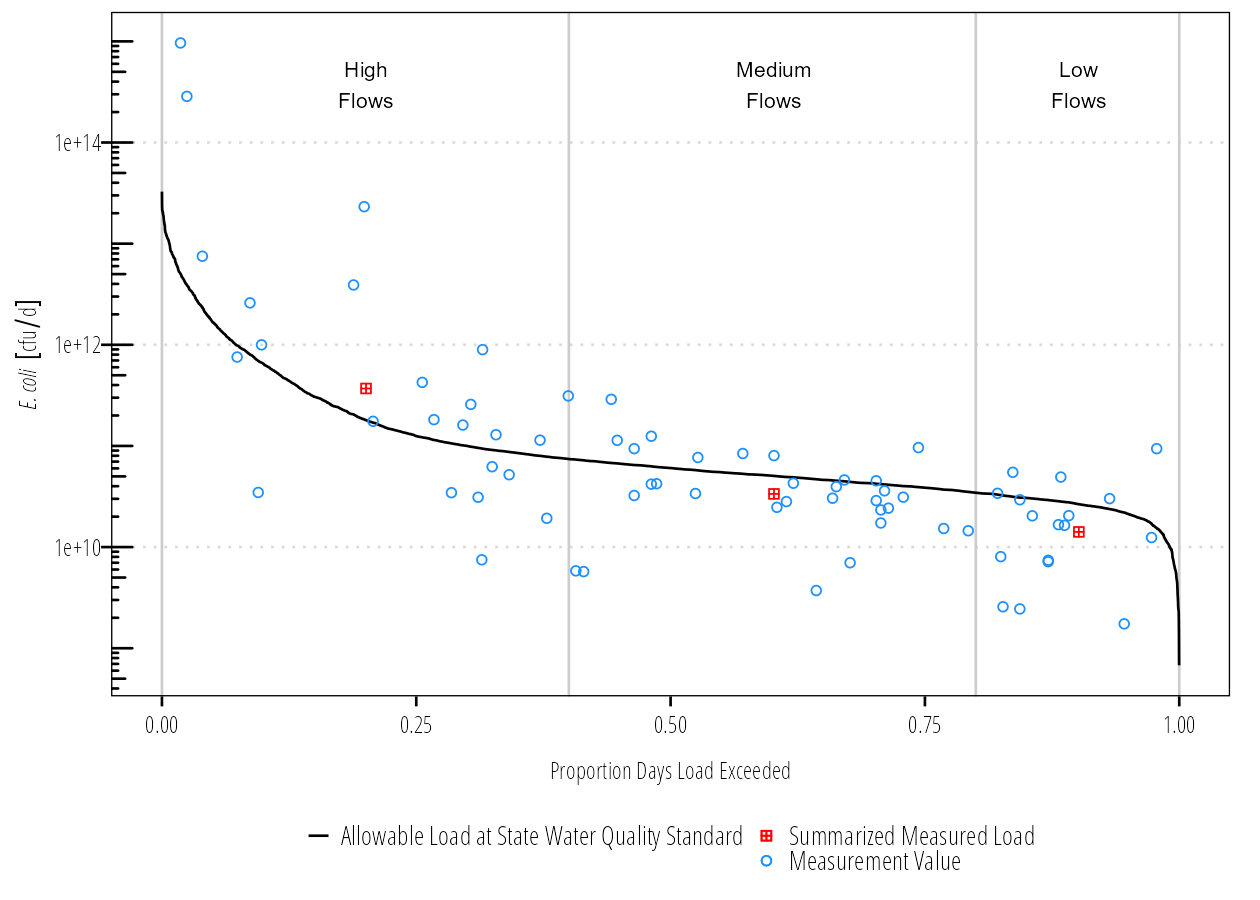
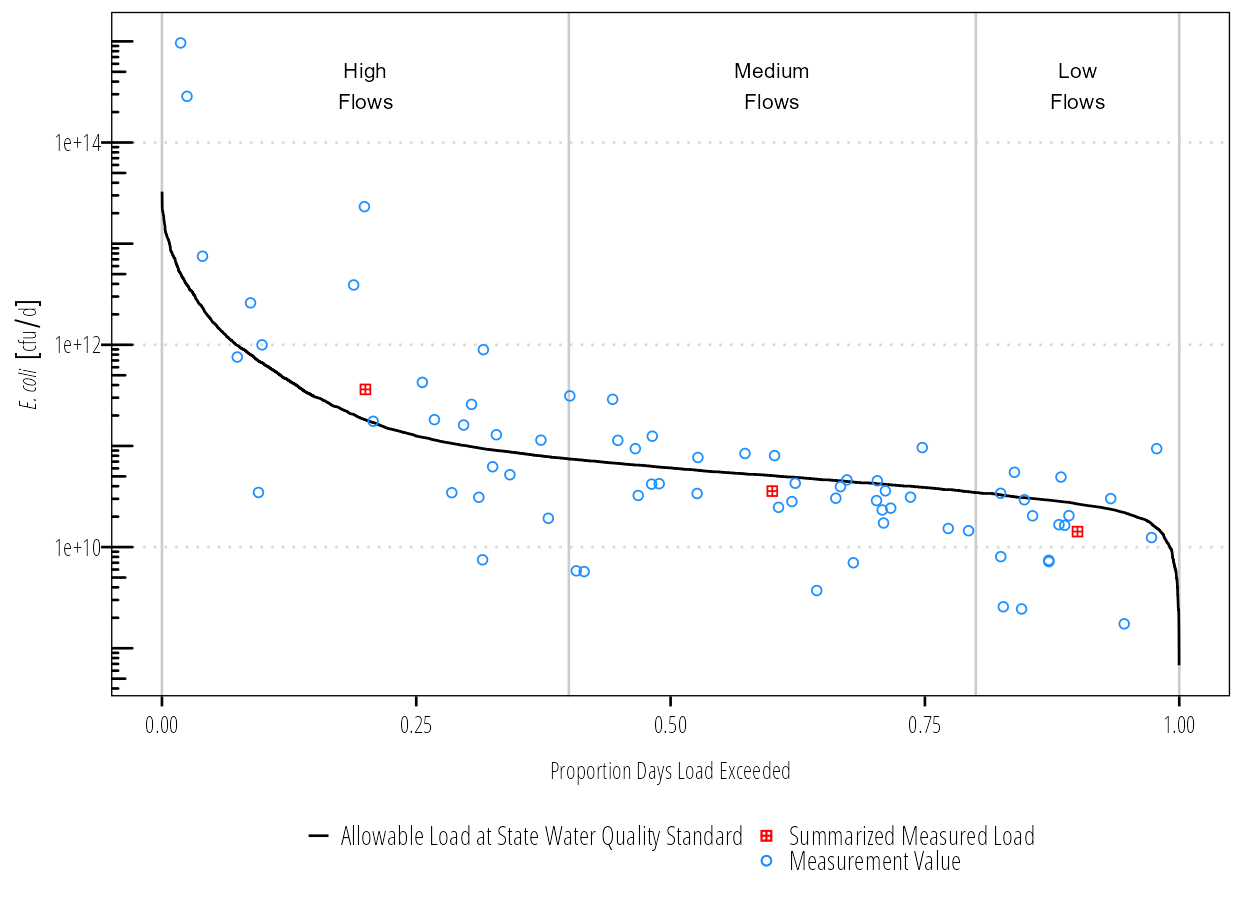
use weibull plotting position

diff --git a/README.md b/README.md
@@ -8,6 +8,7 @@
 [![Project Status: WIP – Initial development is in progress, but there
 has not yet been a stable, usable release suitable for the
 public.](https://www.repostatus.org/badges/latest/wip.svg)](https://www.repostatus.org/#wip)
+[![R-CMD-check](https://github.com/TxWRI/ldc/actions/workflows/check-standard.yaml/badge.svg)](https://github.com/TxWRI/ldc/actions/workflows/check-standard.yaml)
 [![license](https://img.shields.io/badge/license-MIT%20+%20file%20LICENSE-lightgrey.svg)](https://choosealicense.com/)
 
 <!-- badges: end -->
@@ -131,9 +132,9 @@ df_sum
 #> # A tibble: 3 x 6
 #>   Flow_Category Median_Flow Median_P   Geomean_C Median_Daily_Fl~ Median_Flow_Load
 #>   <fct>            [ft^3/s]    <dbl> [cfu/100mL]        [100mL/d]          [cfu/d]
-#> 1 High Flows           58.3    0.201       259.       1426353543.    369892807260.
-#> 2 Medium Flows         16.4    0.602        83.6       401238389.     33559966287.
-#> 3 Low Flows             8.6    0.901        67.1       210405497.     14122654264.
+#> 1 High Flows          58.9     0.200       251.       1441032996.    362264512836.
+#> 2 Medium Flows        16.5     0.600        88.6       403684965.     35770057483.
+#> 3 Low Flows            8.66    0.900        67.1       211995771.     14229395256.
 ```
 
 **Plot LDC**
@@ -167,9 +168,9 @@ df_sum
 #> # A tibble: 3 x 6
 #>   Flow_Category Median_Flow Median_P   Geomean_C Median_Daily_Fl~ Median_Flow_Load
 #>   <fct>            [ft^3/s]    <dbl> [cfu/100mL]   [1E6gallons/d]          [cfu/d]
-#> 1 High Flows           58.3    0.201       259.             37.7     369892807260.
-#> 2 Medium Flows         16.4    0.602        83.6            10.6      33559966287.
-#> 3 Low Flows             8.6    0.901        67.1             5.56     14122654264.
+#> 1 High Flows          58.9     0.200       251.             38.1     362264512836.
+#> 2 Medium Flows        16.5     0.600        88.6            10.7      35770057483.
+#> 3 Low Flows            8.66    0.900        67.1             5.60     14229395256.
 ```
 
 cfu/day is a really big number. We can convert that to billion cfu/day.
@@ -181,9 +182,9 @@ df_sum
 #> # A tibble: 3 x 6
 #>   Flow_Category Median_Flow Median_P   Geomean_C Median_Daily_Fl~ Median_Flow_Load
 #>   <fct>            [ft^3/s]    <dbl> [cfu/100mL]   [1E6gallons/d]       [1E9cfu/d]
-#> 1 High Flows           58.3    0.201       259.             37.7             370. 
-#> 2 Medium Flows         16.4    0.602        83.6            10.6              33.6
-#> 3 Low Flows             8.6    0.901        67.1             5.56             14.1
+#> 1 High Flows          58.9     0.200       251.             38.1             362. 
+#> 2 Medium Flows        16.5     0.600        88.6            10.7              35.8
+#> 3 Low Flows            8.66    0.900        67.1             5.60             14.2
 ```
 
 If we want to plot these, we also need to convert the df\_ldc variables
